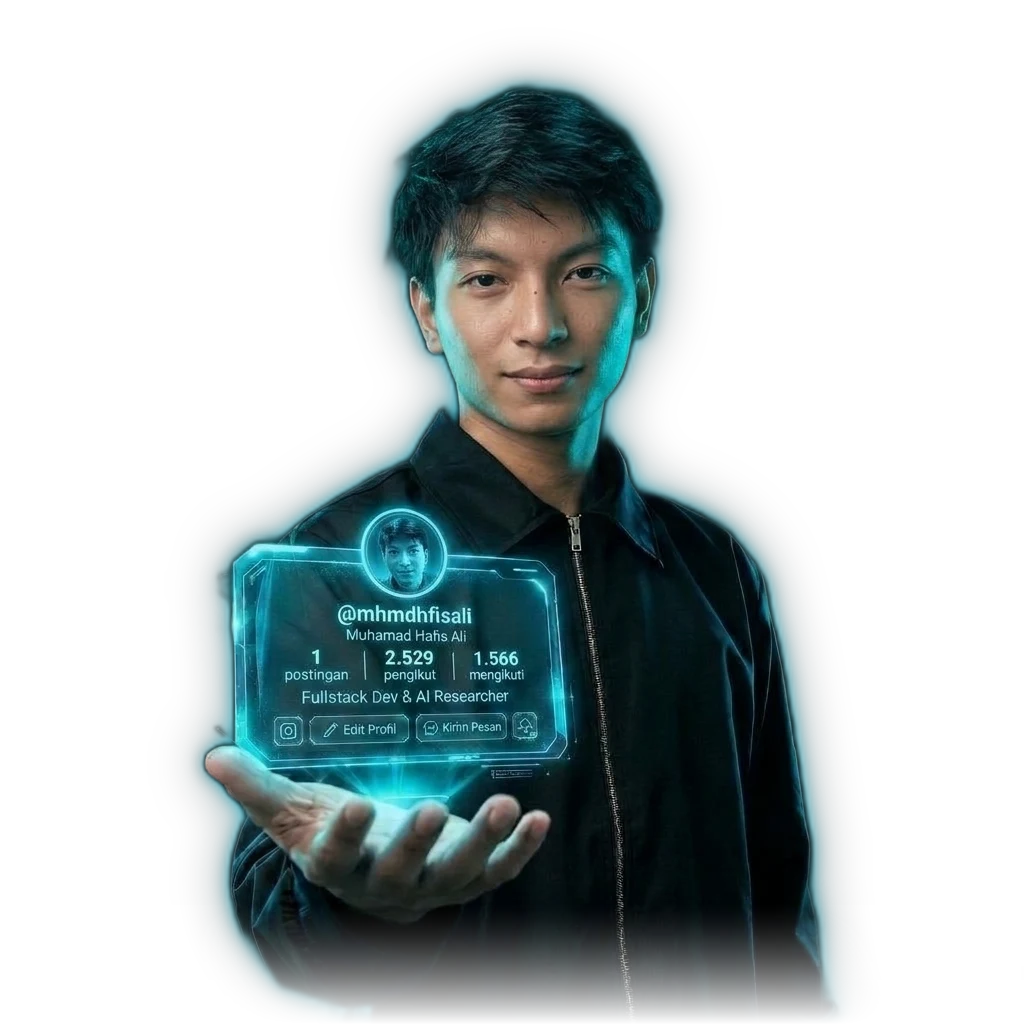
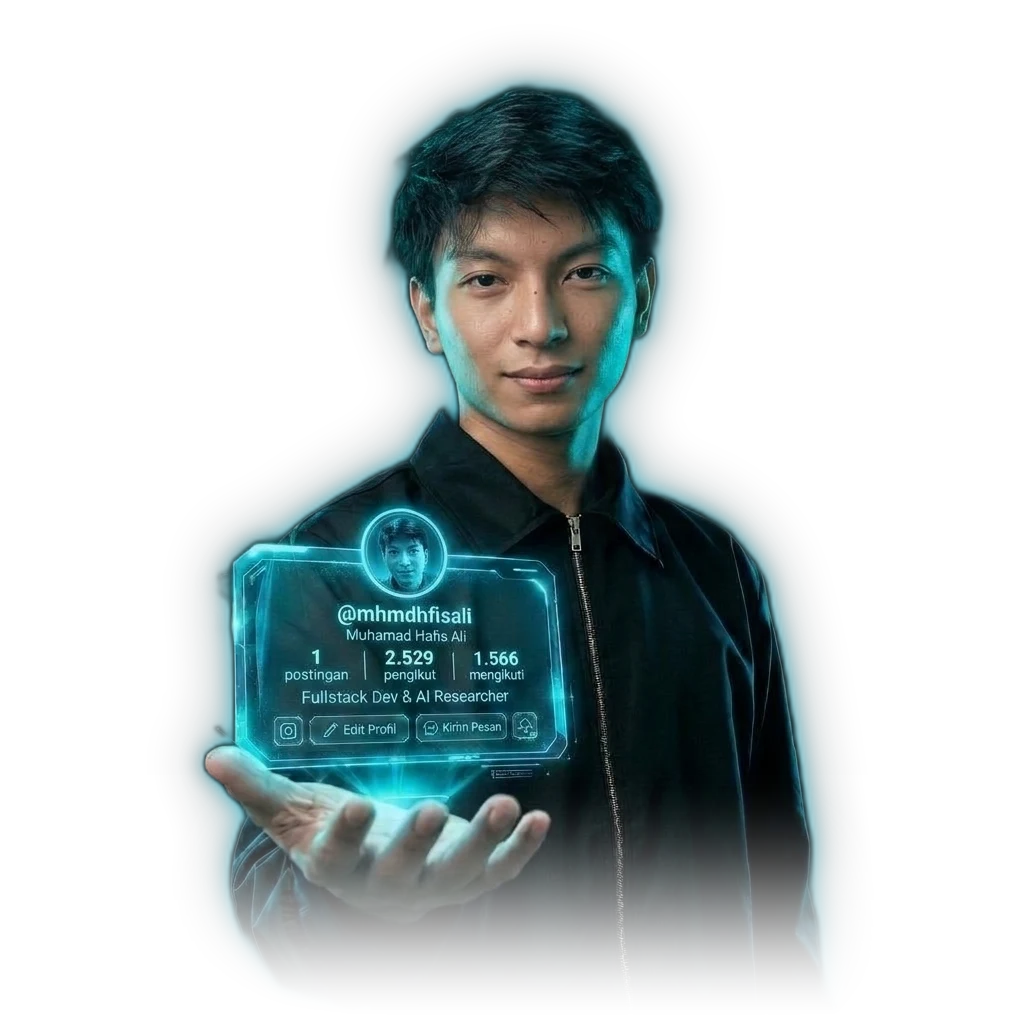
feat: scale up central cutout to 86vh, ground to baseline with smooth fade, and align with Asyukgo visual proportions

Changed region(s): [[0.2188, 0.7812, 0.8438, 1.0]]

diff --git a/portfolio-frontend/components/Hero.jsx b/portfolio-frontend/components/Hero.jsx
@@ -122,17 +122,17 @@ export default function Hero({ profile }) {
       {/* ============================================================== */}
       {/* DESKTOP VIEW (lg:flex): GAYA ASYUKGO ASLI                    */}
       {/* Kiri: "Halo, Saya" + Nama                                      */}
-      {/* Tengah: Foto Cutout Frameless Asli (Bebas Kotak/Border)        */}
+      {/* Tengah: Foto Cutout Frameless Besar Menempel ke Baseline       */}
       {/* Kanan: "Mahasiswa" + "Teknik & Informatika"                   */}
       {/* ============================================================== */}
-      <div className="relative z-10 hidden lg:flex items-center justify-between w-full min-h-[520px]">
+      <div className="relative z-10 hidden lg:flex items-center justify-between w-full min-h-[80vh] xl:min-h-[85vh] overflow-visible pb-0">
         {/* SISI KIRI: "Halo, Saya" + Nama Besar + 2 Tombol Aksi */}
-        <div className="w-[31%] xl:w-[32%] text-left space-y-4 animate-entrance-3d-left z-20">
+        <div className="w-[32%] text-left space-y-3 xl:space-y-4 animate-entrance-3d-left z-20">
           <p className="text-xl xl:text-2xl font-bold font-mono tracking-tight text-cyan-500 dark:text-cyan-400">
             Halo, Saya
           </p>
 
-          <h1 className="text-4xl lg:text-5xl xl:text-6xl 2xl:text-7xl font-black text-gray-950 dark:text-white tracking-tighter leading-[1.04]">
+          <h1 className="text-5xl xl:text-6xl 2xl:text-7xl font-black text-gray-950 dark:text-white tracking-tighter leading-[0.98]">
             Muhamad Hafis <br />
             Ali
           </h1>
@@ -144,7 +144,7 @@ export default function Hero({ profile }) {
                 href={profile.resumeUrl}
                 target="_blank"
                 rel="noopener noreferrer"
-                className="inline-flex items-center gap-2 px-6 py-2.5 rounded-full bg-gradient-to-r from-blue-600 via-indigo-600 to-cyan-500 hover:from-blue-500 hover:to-cyan-400 text-white text-xs font-bold font-mono tracking-tight shadow-lg shadow-cyan-500/25 active:scale-95 transition-all"
+                className="inline-flex items-center gap-2 px-6 py-2.5 rounded-full bg-gradient-to-r from-blue-600 via-indigo-600 to-cyan-500 hover:from-blue-500 hover:to-cyan-400 text-white text-xs sm:text-sm font-bold font-mono tracking-tight shadow-lg shadow-cyan-500/25 active:scale-95 transition-all"
               >
                 <span>{t.hero.downloadCv}</span>
                 <svg className="w-3.5 h-3.5" fill="none" viewBox="0 0 24 24" stroke="currentColor" strokeWidth="2.5">
@@ -158,7 +158,7 @@ export default function Hero({ profile }) {
                 href={profile.githubUrl}
                 target="_blank"
                 rel="noopener noreferrer"
-                className="inline-flex items-center gap-2 px-5 py-2.5 rounded-full bg-white/90 hover:bg-gray-100 dark:bg-white/[0.08] dark:hover:bg-white/[0.14] text-gray-900 dark:text-white text-xs font-semibold font-mono tracking-tight border border-gray-200 dark:border-white/10 active:scale-95 transition-all shadow-2xs"
+                className="inline-flex items-center gap-2 px-5 py-2.5 rounded-full bg-white/90 hover:bg-gray-100 dark:bg-white/[0.08] dark:hover:bg-white/[0.14] text-gray-900 dark:text-white text-xs sm:text-sm font-semibold font-mono tracking-tight border border-gray-200 dark:border-white/10 active:scale-95 transition-all shadow-2xs"
               >
                 <span>{t.hero.github}</span>
                 <svg className="w-3.5 h-3.5 fill-current" viewBox="0 0 24 24">
@@ -169,46 +169,42 @@ export default function Hero({ profile }) {
           </div>
         </div>
 
-        {/* TENGAH: FOTO CUTOUT FRAMELESS ASLI (Bebas Bingkai Kotak, Seamless) */}
-        <div className="w-[38%] xl:w-[36%] flex justify-center items-center relative animate-entrance-3d-center z-10">
-          <div className="relative group/card select-none flex flex-col items-center justify-center">
-            {/* Ambient Cyan Aura Halo di Belakang Figur */}
-            <div className="pointer-events-none absolute -inset-10 bg-gradient-to-t from-cyan-500/30 via-blue-600/30 to-transparent rounded-full blur-3xl opacity-80 group-hover/card:opacity-100 transition-opacity duration-700 animate-pulse" />
+        {/* TENGAH: FOTO CUTOUT BESAR TERPUSAT, MENEMPEL KE BAWAH BASELINE */}
+        <div className="absolute left-1/2 bottom-0 -translate-x-1/2 flex flex-col justify-end items-center h-full z-10 pointer-events-none select-none">
+          {/* Ambient Cyan Aura Halo di Belakang Figur (Tanpa orbit rings yang membatasi) */}
+          <div className="pointer-events-none absolute left-1/2 top-1/2 -translate-x-1/2 -translate-y-1/2 w-[480px] xl:w-[620px] h-[480px] xl:h-[620px] bg-gradient-to-t from-cyan-500/35 via-blue-600/30 to-transparent rounded-full blur-[110px] opacity-90 animate-pulse" />
 
-            {/* Orbit Tech Rings Halus */}
-            <div className="pointer-events-none absolute left-1/2 top-1/2 -translate-x-1/2 -translate-y-1/2 w-[340px] xl:w-[420px] h-[340px] xl:h-[420px] rounded-full border border-cyan-400/20 dark:border-cyan-400/30 border-dashed animate-[spin_35s_linear_infinite]" />
-            <div className="pointer-events-none absolute left-1/2 top-1/2 -translate-x-1/2 -translate-y-1/2 w-[280px] xl:w-[350px] h-[280px] xl:h-[350px] rounded-full border border-blue-500/15 dark:border-blue-400/25 animate-[spin_25s_linear_infinite_reverse]" />
-
-            {/* Figur Cutout 3D Tilt Interaktif Tanpa Box/Border */}
-            <div
-              onMouseMove={handleMouseMove}
-              onMouseEnter={handleMouseEnter}
-              onMouseLeave={handleMouseLeave}
-              style={{
-                transform: isHovered
-                  ? `perspective(1000px) rotateX(${mousePos.y * 0.7}deg) rotateY(${mousePos.x * 0.7}deg) scale(1.03)`
-                  : "perspective(1000px) rotateX(0deg) rotateY(0deg) scale(1)",
-                transition: "transform 0.25s cubic-bezier(0.16, 1, 0.3, 1)",
-              }}
-              className="relative z-20 flex flex-col items-center cursor-pointer transition-all duration-300"
-            >
-              <img
-                src="/images/hafis-cutout-var1-soft-rim.png"
-                alt={fullName || "Muhamad Hafis Ali"}
-                className="w-[340px] xl:w-[420px] 2xl:w-[480px] h-auto object-contain select-none transition-all duration-500 transform-gpu group-hover/card:scale-105 filter drop-shadow-[0_0_35px_rgba(6,182,212,0.5)]"
-                draggable={false}
-              />
-            </div>
+          {/* Figur Cutout 3D Tilt Interaktif Tanpa Box/Border, Tinggi Penuh */}
+          <div
+            onMouseMove={handleMouseMove}
+            onMouseEnter={handleMouseEnter}
+            onMouseLeave={handleMouseLeave}
+            style={{
+              transform: isHovered
+                ? `perspective(1000px) rotateX(${mousePos.y * 0.5}deg) rotateY(${mousePos.x * 0.5}deg) scale(1.02)`
+                : "perspective(1000px) rotateX(0deg) rotateY(0deg) scale(1)",
+              transition: "transform 0.25s cubic-bezier(0.16, 1, 0.3, 1)",
+              maskImage: "linear-gradient(to bottom, black 65%, transparent 100%)",
+              WebkitMaskImage: "linear-gradient(to bottom, black 65%, transparent 100%)",
+            }}
+            className="pointer-events-auto relative z-20 flex flex-col items-center justify-end cursor-pointer"
+          >
+            <img
+              src="/images/hafis-cutout-var1-soft-rim.png"
+              alt={fullName || "Muhamad Hafis Ali"}
+              className="h-[62vh] sm:h-[72vh] lg:h-[80vh] xl:h-[86vh] max-h-[780px] w-auto object-contain object-bottom select-none transform-gpu filter drop-shadow-[0_0_40px_rgba(6,182,212,0.55)]"
+              draggable={false}
+            />
           </div>
         </div>
 
         {/* SISI KANAN: "Mahasiswa" + "Teknik & Informatika" + Metrik */}
-        <div className="w-[31%] xl:w-[32%] text-left space-y-4 animate-entrance-3d-right z-20">
+        <div className="w-[32%] text-left space-y-3 xl:space-y-4 animate-entrance-3d-right z-20">
           <p className="text-xl xl:text-2xl font-bold font-mono tracking-tight text-cyan-500 dark:text-cyan-400">
             Mahasiswa
           </p>
 
-          <h2 className="text-4xl lg:text-5xl xl:text-6xl 2xl:text-7xl font-black text-gray-950 dark:text-white tracking-tighter leading-[1.04]">
+          <h2 className="text-5xl xl:text-6xl 2xl:text-7xl font-black text-gray-950 dark:text-white tracking-tighter leading-[0.98]">
             Teknik <br />
             & Informatika
           </h2>
@@ -236,6 +232,9 @@ export default function Hero({ profile }) {
             </span>
           </div>
         </div>
+
+        {/* Floating Glowing Cyan Orb di Kanan (Persis Gaya Asyukgo) */}
+        <div className="hidden lg:block pointer-events-none absolute -right-4 xl:right-2 top-1/2 -translate-y-1/2 w-12 xl:w-16 h-12 xl:h-16 rounded-full bg-cyan-400/35 blur-md shadow-[0_0_35px_rgba(34,211,238,0.7)] animate-pulse" />
       </div>
 
       {/* ============================================================== */}
@@ -243,15 +242,18 @@ export default function Hero({ profile }) {
       {/* Bebas Box/Border, Rapi, Simetris, Tidak Rame                   */}
       {/* ============================================================== */}
       <div className="lg:hidden flex flex-col items-center text-center space-y-4 pt-1 pb-4">
-        {/* Foto Cutout Frameless Asli */}
+        {/* Foto Cutout Frameless Asli dengan Bottom Fadeout */}
         <div className="relative group/card select-none flex flex-col items-center justify-center animate-entrance-3d-center">
           <div className="pointer-events-none absolute -inset-6 bg-gradient-to-t from-cyan-500/25 via-blue-600/30 to-transparent rounded-full blur-2xl opacity-80 animate-pulse" />
-          <div className="pointer-events-none absolute left-1/2 top-1/2 -translate-x-1/2 -translate-y-1/2 w-[220px] sm:w-[280px] h-[220px] sm:h-[280px] rounded-full border border-cyan-400/25 border-dashed animate-[spin_30s_linear_infinite]" />
 
           <img
             src="/images/hafis-cutout-var1-soft-rim.png"
             alt={fullName || "Muhamad Hafis Ali"}
-            className="w-56 sm:w-64 h-auto object-contain select-none relative z-20 filter drop-shadow-[0_0_25px_rgba(6,182,212,0.6)]"
+            style={{
+              maskImage: "linear-gradient(to bottom, black 70%, transparent 100%)",
+              WebkitMaskImage: "linear-gradient(to bottom, black 70%, transparent 100%)",
+            }}
+            className="w-64 sm:w-80 h-auto object-contain select-none relative z-20 filter drop-shadow-[0_0_30px_rgba(6,182,212,0.6)]"
             draggable={false}
           />
         </div>

diff --git a/portfolio-frontend/app/page.tsx b/portfolio-frontend/app/page.tsx
@@ -184,9 +184,9 @@ export default async function Home() {
       (CANONICAL_ORDER[b._id] || b.featuredOrder || 99),
   );
 
-  // CLASS RESPONSIVE: Hero 1 layar penuh (100dvh di mobile & desktop), seksi konten lapang & rapi
+  // CLASS RESPONSIVE: Hero 1 layar penuh (100dvh di mobile & desktop), lapang, grounded to baseline
   const heroSectionClass =
-    "w-full flex flex-col justify-center items-center min-h-screen min-h-[100dvh] pt-20 pb-8 sm:pt-32 sm:pb-16 scroll-mt-20";
+    "w-full flex flex-col justify-end lg:justify-center items-center min-h-screen min-h-[100dvh] pt-16 sm:pt-20 pb-0 scroll-mt-20 relative";
   const contentSectionClass =
     "w-full block py-8 sm:py-20 sm:pb-24 scroll-mt-20";
 
@@ -199,7 +199,7 @@ export default async function Home() {
 
       <Navbar profile={profile} />
 
-      <main className="relative z-10 w-full max-w-6xl mx-auto px-4 sm:px-6 md:px-8 space-y-2 sm:space-y-0">
+      <main className="relative z-10 w-full max-w-7xl mx-auto px-4 sm:px-6 md:px-8 space-y-2 sm:space-y-0">
         {/* 1. SEKSI BERANDA / HOME (Langsung Aktif di Above The Fold) */}
         <section id="home" className={heroSectionClass}>
           <span id="beranda" className="sr-only" />
